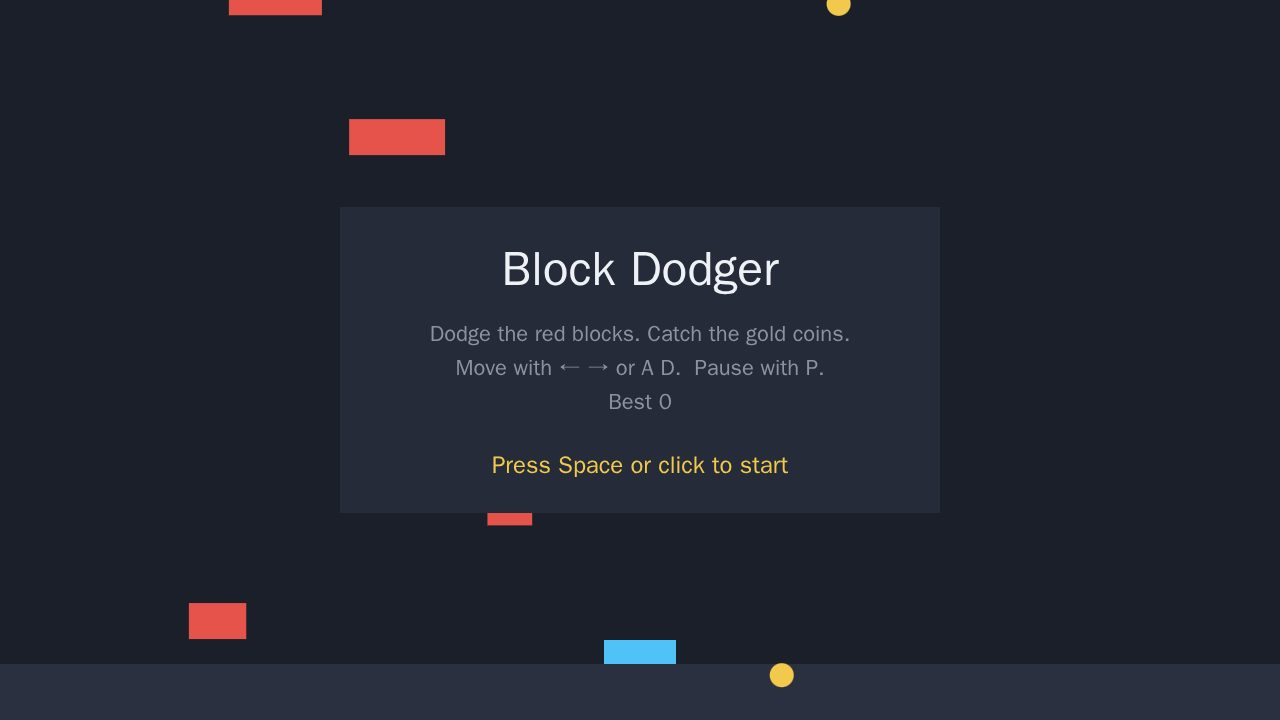
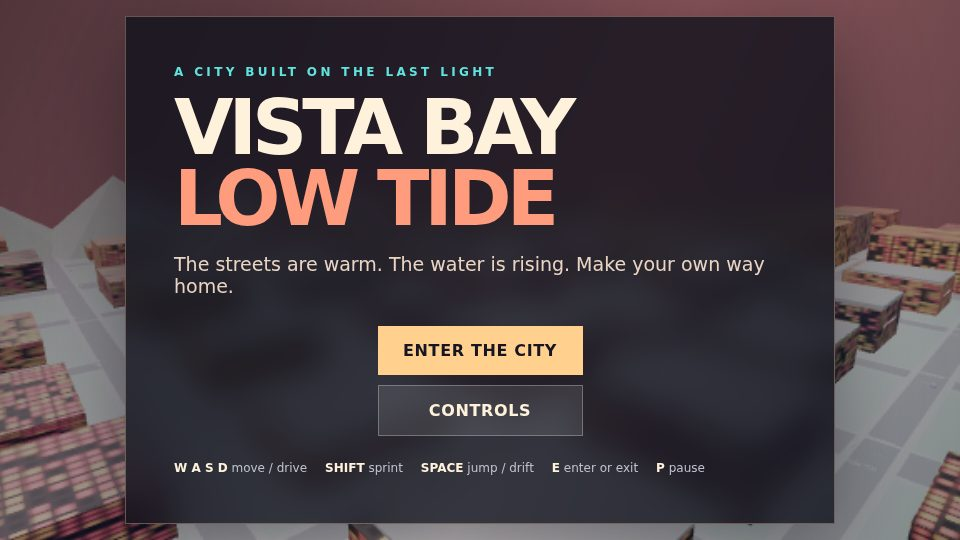
final: lightweight shot mode, real screenshots, README, dossier verified

diff --git a/main.ts b/main.ts
@@ -1,16 +1,13 @@
-// A working gta6-01 entry (Node 22, standard library only): the game is this directory's
-// game/ folder, plain static files a desktop browser loads offline (game/index.html and its ES
-// modules, no library and no network request), and the program hands it in. It copies game/ and
-// screenshots/ from beside this file to /output and writes /output/dossier.json, the summary the
-// judge reads, with the vendored make.fun library. Only the plumbing, not an open world: Block
-// Dodger, a plain 2D canvas game where a paddle dodges falling blocks and catches coins, with a
-// title screen, score, lives and levels, game over and restart, flat colours and no sound. Build
-// your own open-world crime game in its place (three.js or any library you vendor under game/),
-// put your 3 or 4 PNG or JPEG screenshots in screenshots/ (the first by name is the cover) and run it.
+// Vista Bay — Low Tide is an original, static Three.js open-world crime sandbox.
+// This Node 22 entry preflights the offline game and screenshots, then hands them in.
+// It copies game/ and screenshots/ beside this file to the selected output directory and
+// writes dossier.json with the byte-identical make.fun game library.
 //
 // Serve it locally with `node serve.ts`, then open http://localhost:8080.
 // Outside the grader's container, MAKEFUN_OUTPUT_DIR stands in for /output:
 //   mkdir -p out && MAKEFUN_OUTPUT_DIR=out node main.ts
+
+// Offline entry preflight and local URL.
 
 import { cpSync, existsSync, mkdirSync, writeFileSync } from 'node:fs';
 import { join } from 'node:path';
@@ -19,6 +16,23 @@ import { buildDossier } from './vendor/makefun-game.ts';
 
 const here = fileURLToPath(new URL('.', import.meta.url));
 const out = process.env.MAKEFUN_OUTPUT_DIR ?? '/output';
+const requiredFiles = [
+  'game/index.html',
+  'game/vendor/three.min.js',
+  'screenshots/1-start.jpg',
+  'screenshots/2-play.jpg',
+  'screenshots/3-end.jpg',
+];
+const portIndex = process.argv.indexOf('--port');
+const requestedPort = portIndex < 0 ? 8080 : Number(process.argv[portIndex + 1]);
+const port = Number.isInteger(requestedPort) && requestedPort > 0 && requestedPort < 65536 ? requestedPort : 8080;
+const missingFiles = requiredFiles.filter((path) => !existsSync(join(here, path)));
+
+console.log(`Vista Bay is served at http://localhost:${port}`);
+if (missingFiles.length > 0) {
+  console.error(`Cannot build dossier; required files are missing: ${missingFiles.join(', ')}`);
+  process.exit(1);
+}
 
 mkdirSync(out, { recursive: true });
 cpSync(join(here, 'game'), join(out, 'game'), { recursive: true });

diff --git a/game/src/main.js b/game/src/main.js
@@ -16,7 +16,6 @@ import { createEffects } from './effects.js';
 
 const THREE = globalThis.THREE;
 const MAX_FRAME = 0.05;
-const SHOT_READY_FRAME = 60;
 const weaponRay = new THREE.Raycaster();
 const weaponDirection = new THREE.Vector3();
 const weaponOrigin = new THREE.Vector3();
@@ -76,15 +75,13 @@ let dayCycle = progress.settings.dayCycle;
 let weapon = 'Unarmed';
 let ammo = 0;
 let reserveAmmo = 0;
-let shotPaints = 0;
 let damageFlash = 0;
 let pursuit = 0;
-let shotReady = false;
 let activeOutcome = null;
 const weaponNames = ['Sidearm', 'Compact SMG', 'Longarm'];
 const fallbackToast = document.getElementById('toast');
 const missionPoint = { x: 165, z: -5 };
-window.__SHOT_READY__ = shotReady;
+window.__SHOT_READY__ = false;
 
 hud.setMoney(progress.money);
 audio.setStation(radioName);
@@ -529,18 +526,14 @@ function frame(now) {
   const dt = Math.min(Math.max(0, (now - frame.last) / 1000 || 0), MAX_FRAME);
   frame.last = now;
   if (shotDirector.shot) {
-    shotDirector.update(1 / 60);
+    shotDirector.updateShot(1 / 60);
     effects.update(1 / 60);
     if (shotDirector.shot !== 'start') {
       hud.update(hudState(), 1 / 60);
       audio.update(1 / 60);
     }
     world.renderer.render(world.scene, world.camera);
-    shotPaints += 1;
-    if (shotPaints >= SHOT_READY_FRAME) {
-      shotReady = true;
-      window.__SHOT_READY__ = true;
-    }
+    shotDirector.frameRendered();
     return;
   }
   if (mode === 'title' || mode === 'playing') {
@@ -602,6 +595,12 @@ if (shotDirector.shot) {
     begin();
   }
   shotDirector.stage();
+  world.renderer.setPixelRatio(0.6);
+  world.renderer.shadowMap.enabled = false;
+  world.scene.traverse((object) => {
+    object.castShadow = false;
+    object.receiveShadow = false;
+  });
   hud.setWeather(world.weather);
   if (shotDirector.shot === 'start') {
     setMode('title');

diff --git a/game/src/shots.js b/game/src/shots.js
@@ -3,6 +3,7 @@ import { createVehicle } from './vehicles.js';
 
 const THREE = globalThis.THREE;
 const SHOT_CAMERA_DISTANCE = 10;
+const SHOT_READY_FRAME = 12;
 
 function addHelicopter(scene) {
   const helicopter = new THREE.Group();
@@ -83,7 +84,7 @@ export function createShotDirector(options) {
   const { world, player, enter, playerCars, traffic, pedestrians, hud, rng } = options;
   const shot = new URLSearchParams(globalThis.location.search).get('shot');
   const validShot = ['start', 'play', 'end'].includes(shot) ? shot : null;
-  const state = { shot: validShot, frame: 0, elapsed: 0, car: null, helicopter: null, police: [], extraTraffic: [] };
+  const state = { shot: validShot, frame: 0, renderedFrames: 0, elapsed: 0, car: null, helicopter: null, police: [], extraTraffic: [] };
   const origin = new THREE.Vector3();
   const lookAt = new THREE.Vector3();
   const carTargetScratch = new THREE.Vector3();
@@ -221,7 +222,7 @@ export function createShotDirector(options) {
     return true;
   }
 
-  function update(dt) {
+  function updateShot(dt) {
     if (!state.shot) return;
     state.frame += 1;
     state.elapsed += dt;
@@ -278,5 +279,13 @@ export function createShotDirector(options) {
     world.camera.lookAt(lookAt);
   }
 
-  return { shot: state.shot, stage, update, state };
+  function frameRendered() {
+    state.renderedFrames += 1;
+    window.__SHOT_FRAME_COUNT__ = state.renderedFrames;
+    if (state.renderedFrames >= SHOT_READY_FRAME) {
+      window.__SHOT_READY__ = true;
+    }
+  }
+
+  return { shot: state.shot, stage, updateShot, frameRendered, state };
 }

diff --git a/serve.ts b/serve.ts
@@ -66,7 +66,22 @@ createServer((request, response) => {
     'content-length': size,
     'cache-control': 'no-store',
   });
-  createReadStream(file).pipe(response);
+  const stream = createReadStream(file);
+  stream.on('error', () => {
+    if (response.destroyed) return;
+    if (response.headersSent) {
+      response.destroy();
+      return;
+    }
+    response.writeHead(500).end('read error');
+  });
+  request.on('aborted', () => stream.destroy());
+  request.on('error', () => stream.destroy());
+  response.on('close', () => {
+    if (!response.writableFinished) stream.destroy();
+  });
+  response.on('error', () => stream.destroy());
+  stream.pipe(response);
 }).listen(port, '127.0.0.1', () => {
   console.log(`game/ is on http://localhost:${port}`);
 });

diff --git a/game/index.html b/game/index.html
@@ -4,6 +4,7 @@
 <meta charset="utf-8">
 <meta name="viewport" content="width=device-width, initial-scale=1, maximum-scale=1, user-scalable=no">
 <meta name="theme-color" content="#151522">
+<link rel="icon" href="data:,">
 <title>Vista Bay — Low Tide</title>
 <style>
   :root { color-scheme: dark; font-family: system-ui, -apple-system, "Segoe UI", sans-serif; color: #fff2dc; }

diff --git a/tools/capture.py b/tools/capture.py
@@ -1,0 +1,79 @@
+#!/usr/bin/python3
+"""Capture deterministic Vista Bay bounty screenshots with the local static server."""
+
+from pathlib import Path
+import glob
+import subprocess
+
+from playwright.sync_api import sync_playwright
+
+ROOT = Path(__file__).resolve().parent.parent
+SCREENSHOTS = ROOT / 'screenshots'
+PORT = 8123
+SHOTS = (
+    ('start', '1-start.jpg'),
+    ('play', '2-play.jpg'),
+    ('end', '3-end.jpg'),
+)
+
+
+def chromium_path():
+    candidates = glob.glob(str(Path.home() / '.cache/ms-playwright/chromium-*/chrome-linux/chrome'))
+    candidates.extend(glob.glob(str(Path.home() / '.cache/ms-playwright/chromium-*/chrome-linux64/chrome')))
+    if not candidates:
+        raise FileNotFoundError('Playwright Chromium was not found under ~/.cache/ms-playwright')
+    return candidates[-1]
+
+
+def main():
+    SCREENSHOTS.mkdir(parents=True, exist_ok=True)
+    server = subprocess.Popen(
+        ['node', 'serve.ts', '--port', str(PORT)],
+        cwd=ROOT,
+        stdout=subprocess.PIPE,
+        stderr=subprocess.STDOUT,
+        text=True,
+    )
+    collected_errors = []
+
+    try:
+        with sync_playwright() as playwright:
+            browser = playwright.chromium.launch(
+                headless=True,
+                executable_path=chromium_path(),
+                args=['--use-gl=angle', '--use-angle=swiftshader'],
+            )
+            page = browser.new_page(viewport={'width': 960, 'height': 540}, device_scale_factor=1)
+            page.on('console', lambda message: collected_errors.append('console: ' + message.text) if message.type == 'error' else None)
+            page.on('pageerror', lambda error: collected_errors.append('page: ' + str(error)))
+
+            for shot_name, filename in SHOTS:
+                url = f'http://127.0.0.1:{PORT}/index.html?shot={shot_name}&seed=1'
+                page.goto(url, wait_until='load', timeout=60000)
+                page.wait_for_function('window.__SHOT_READY__ === true', timeout=300000)
+                page.evaluate('window.requestAnimationFrame = () => 0')
+                page.screenshot(path=str(SCREENSHOTS / filename), type='jpeg', quality=82)
+                frame_count = page.evaluate('window.__SHOT_FRAME_COUNT__')
+                print(f'captured {filename} at {frame_count} frames')
+
+            browser.close()
+    finally:
+        server.terminate()
+        try:
+            server.wait(timeout=5)
+        except subprocess.TimeoutExpired:
+            server.kill()
+            server.wait()
+        if server.stdout:
+            server.stdout.close()
+
+    print('Collected browser errors:')
+    if collected_errors:
+        for error in collected_errors:
+            print(error)
+    else:
+        print('(none)')
+
+
+if __name__ == '__main__':
+    main()

diff --git a/README.md b/README.md
@@ -1,0 +1,46 @@
+# Vista Bay — Low Tide
+
+[![make.fun bounty](https://make.fun/badge/gta6-01.svg)](https://make.fun)
+[![rank](https://make.fun/badge/gta6-01/firdhoarianza/gta6-01-v3/rank.svg)](https://make.fun)
+[![reward](https://make.fun/badge/gta6-01/firdhoarianza/gta6-01-v3/reward.svg)](https://make.fun)
+
+An original, deterministic coastal city sandbox about the last warm hour before night. Walk or take a car through Vista Bay's six districts, weave between traffic, build wanted heat, and find your own route through a sunlit crime story. Every city block, vehicle, pedestrian, and weather pass is built locally from seeded procedural systems. The game runs as static files with vendored Three.js and makes no runtime network requests.
+
+## Controls
+
+| Key | Action |
+| --- | --- |
+| WASD | Walk or drive |
+| Shift | Sprint |
+| Space | Jump or handbrake |
+| E | Enter or exit a vehicle |
+| 1 / 2 / 3 | Select weapons |
+| R | Reload |
+| F | Crouch |
+| H | Horn |
+| N | Change radio station |
+| M | Toggle activity |
+| P / Esc | Pause or resume |
+
+## Run
+
+Use Node.js 22 or newer. From the repository root, run node serve.ts and open [http://localhost:8080](http://localhost:8080). The game is served directly from game/; there is no build step.
+
+## Module architecture
+
+- src/main.js boots the world, connects input and HUD, and runs gameplay.
+- src/city.js generates the street grid, districts, skyline, waterfront, and landmarks.
+- src/world.js owns Three.js rendering, lighting, day cycle, water, and weather.
+- src/player.js, src/vehicles.js, src/traffic.js, and src/pedestrians.js simulate movement and city life.
+- src/input.js, src/hud.js, and src/menu.js provide controls and interface.
+- src/shots.js stages deterministic start, driving, and pursuit scenes for screenshots.
+- src/rng.js, src/save.js, src/audio.js, and src/effects.js provide seeded randomness, local progress, sound, and bounded effects.
+- vendor/three.min.js is the vendored Three.js r140 runtime.
+
+## Screenshots
+
+The three JPEGs were captured at 960×540 with headless Playwright Chromium against the local server. Each scene uses the shot and seed query parameters for start, play, or end with seed 1, waits for the staged scene to render, then saves JPEG quality 82. tools/capture.py reproduces the captures; shot mode reduces pixel ratio and disables shadows for software-rendered Chromium.
+
+## License
+
+Game source and original game assets are released under the MIT License; see [LICENSE](LICENSE). Three.js remains under its own license in game/vendor/.
